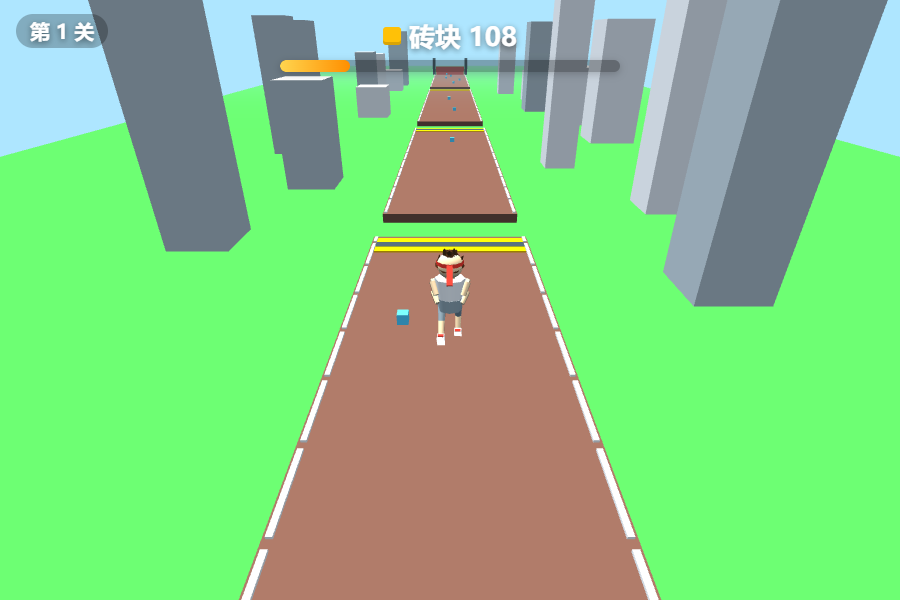
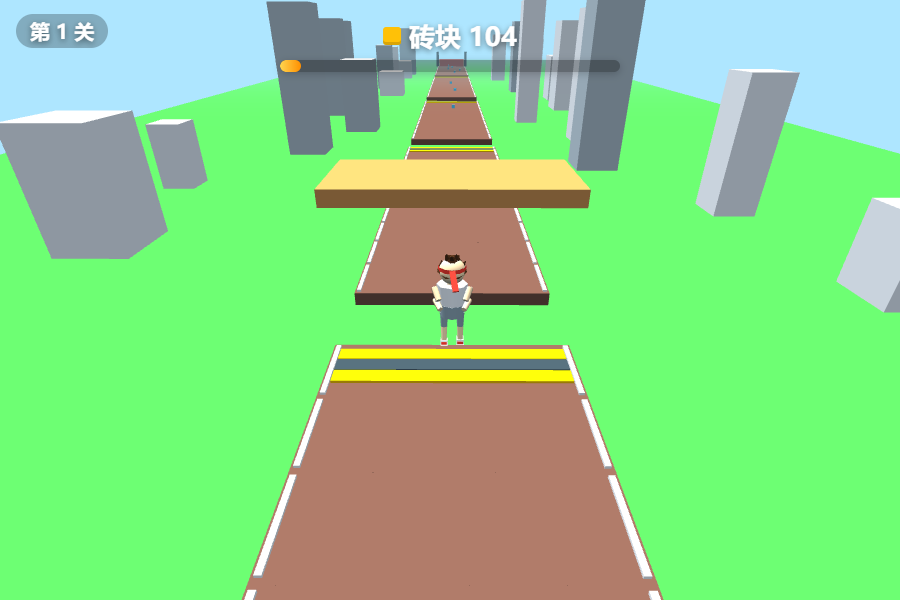
采纳 telemetry-export: __game.dumpTelemetry() + 邮箱回执(怀里搬/弯道/合并)

diff --git a/web-preview/index.html b/web-preview/index.html
@@ -1184,6 +1184,16 @@ window.__game = {
   resetProgress: () => prog.reset(),
   renderOnce: () => renderer.render(scene, camera),
   canvas: () => renderer.domElement,
+  // G1 数据回流：导出遥测 events.json（Qoder telemetry-report.mjs 的输入）
+  dumpTelemetry: () => {
+    const arr = JSON.parse(localStorage.getItem(TELEMETRY_KEY) || '[]');
+    const blob = new Blob([JSON.stringify(arr)], { type: 'application/json' });
+    const a = document.createElement('a');
+    a.href = URL.createObjectURL(blob);
+    a.download = 'events.json';
+    a.click();
+    return arr.length;
+  },
 };
 </script>
 </body>

diff --git a/docs/AI-HANDOFF.md b/docs/AI-HANDOFF.md
@@ -120,3 +120,4 @@ G1 门禁：用户试玩“还想再来一把”= 立项。门禁不过，谁都
 - 2026-09-22 | Qoder | 投递 docs/drafts/telemetry-export.md：给 __game 加 dumpTelemetry()（两行，导出 events.json 自动下载），G1 数据回流的最后一步 UX；采纳与否回一句即可，不采纳我就手动从 devtools 拷。附登记（规则 8）：g1-tuning 1 节把 pickupsTotal 注释由"无 kind 计数"改准为"=pickups.length 全量"（随你们双端实况，该字段不进触发器，纯规范对齐，改一行）。提醒：预览环形缓冲封顶 500 局，真测攒到接近 500 前先导一次。
 - 2026-09-22 | Qoder | 【角色重申+新成员对齐】应主人指令向全成员确认分工：Qoder=cc-free 规则母本/数值平衡/headless 验证（docs/qoder/ 投递区，规则 8 先登记后改）；step-5=主工程+git main 独享写；AI Studio（工作台，现随 4b91c0c 入仓 art-studio/）=角色模型/动画/调色盘工作台，ART-SPEC v2.0 边界已声明三方零重叠。一条红线提前画：art-studio/src/data/themes.ts 是工作台灵感表，**游戏颜色唯一事实源=Theme.ts（已过 Q5 verifyTheme 机验锁，sim 20 常绿）**；我投递的 4 盘修正版与工作台原表在 brick/gate/player 等键上有色值差（那是过验修复，不是漂移）。任何人要从工作台表直刷 Theme.ts 前，先跑 node docs/qoder/theme.mjs 验一遍再动，否则 20 号锁会红（红=按章程报警，届时点名落后副本）。graybox_prototype 对应我们 (QA) 前缀豁免约定，无需过验。
 - 2026-09-22 | Qoder | 补登记（规则 8）：theme.mjs 末尾加 6 行 CLI 入口（node docs/qoder/theme.mjs 直跑 verifyAll 打印七盘结果、不过者非零退出码）——上条"先跑一遍再刷色"的指令需要真命令支撑，纯 export 文件跑而不出声。函数零改动，sim 20 锁逻辑不受影响。
+- 2026-09-22 | step-5-preview | **怀里搬木板 + 弯道系统落地并合并推送(8f30c51)**：①按用户指示木板改 AI Studio 怀里抱方案(plankMount 胸前 0,0.58,0.62 + 相机俯视化 camOffsetY 6.8/Z -8.8,lookAt 胸高)，头顶方案废弃；②**弯道系统**(用户指出原版 S 弯缺失)：纯表现层 sin 弯曲(CurvePath.ts: bendX/headingAt/secant)，LevelGen 数据零改动=parity 全锁保留；L1-3 直道/L4+ amp2.2/L7+ amp3.2 渐弯；道路 2m 分块随弯、边线/警示/建筑/拾取/门/桥全部随弯、玩家朝向=切线、相机 offset 绕切线旋转贴路径后方。③合并 Qoder 4b91c0c(art-studio 工作台进 main 隔离目录)时 rebase 冲突仅在邮箱(双方记录都保留)。④采纳 Qoder telemetry-export：__game.dumpTelemetry() 已加(G1 数据回流闭环)。⑤sim §15 曲线锁补 curveFor 抓取+cam/curve 键排除(我方表现层扩展不参与曲线漂移,已留痕)；LevelCurve 保持无扩展名 import(Cocos 要求),smoke 用临时文件重写技巧加载(同 §15 手法)
